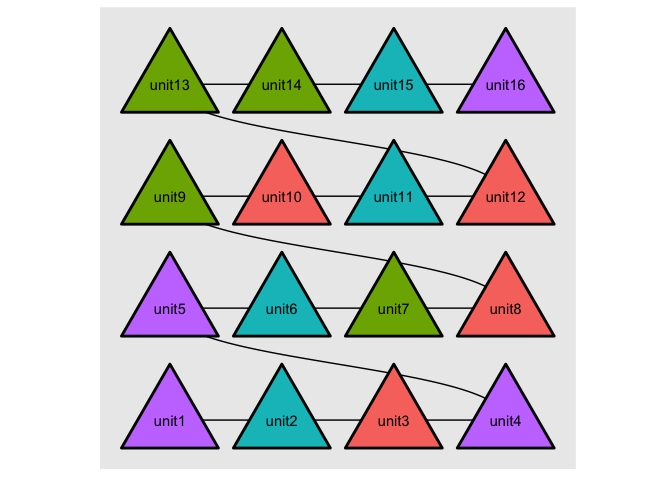
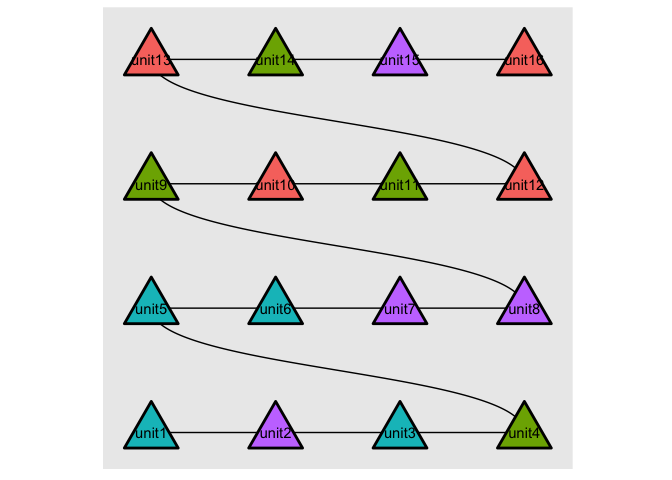
README for restyle_labels

Changed region(s): [[0.125, 0.0312, 0.8438, 0.9688]]

diff --git a/README.md b/README.md
@@ -61,7 +61,9 @@ autoplot(unit1) + restyle_units(shape = "triangle")
 ![](man/figures/README-unnamed-chunk-5-1.png)<!-- -->
 
 ``` r
-autoplot(unit1) + restyle_units(shape = "hexagon")
+autoplot(unit1) + 
+  restyle_units(shape = "hexagon") +
+  restyle_labels(size = 6, color = "gray", fontface = "bold")
 ```
 
 ![](man/figures/README-unnamed-chunk-6-1.png)<!-- -->
